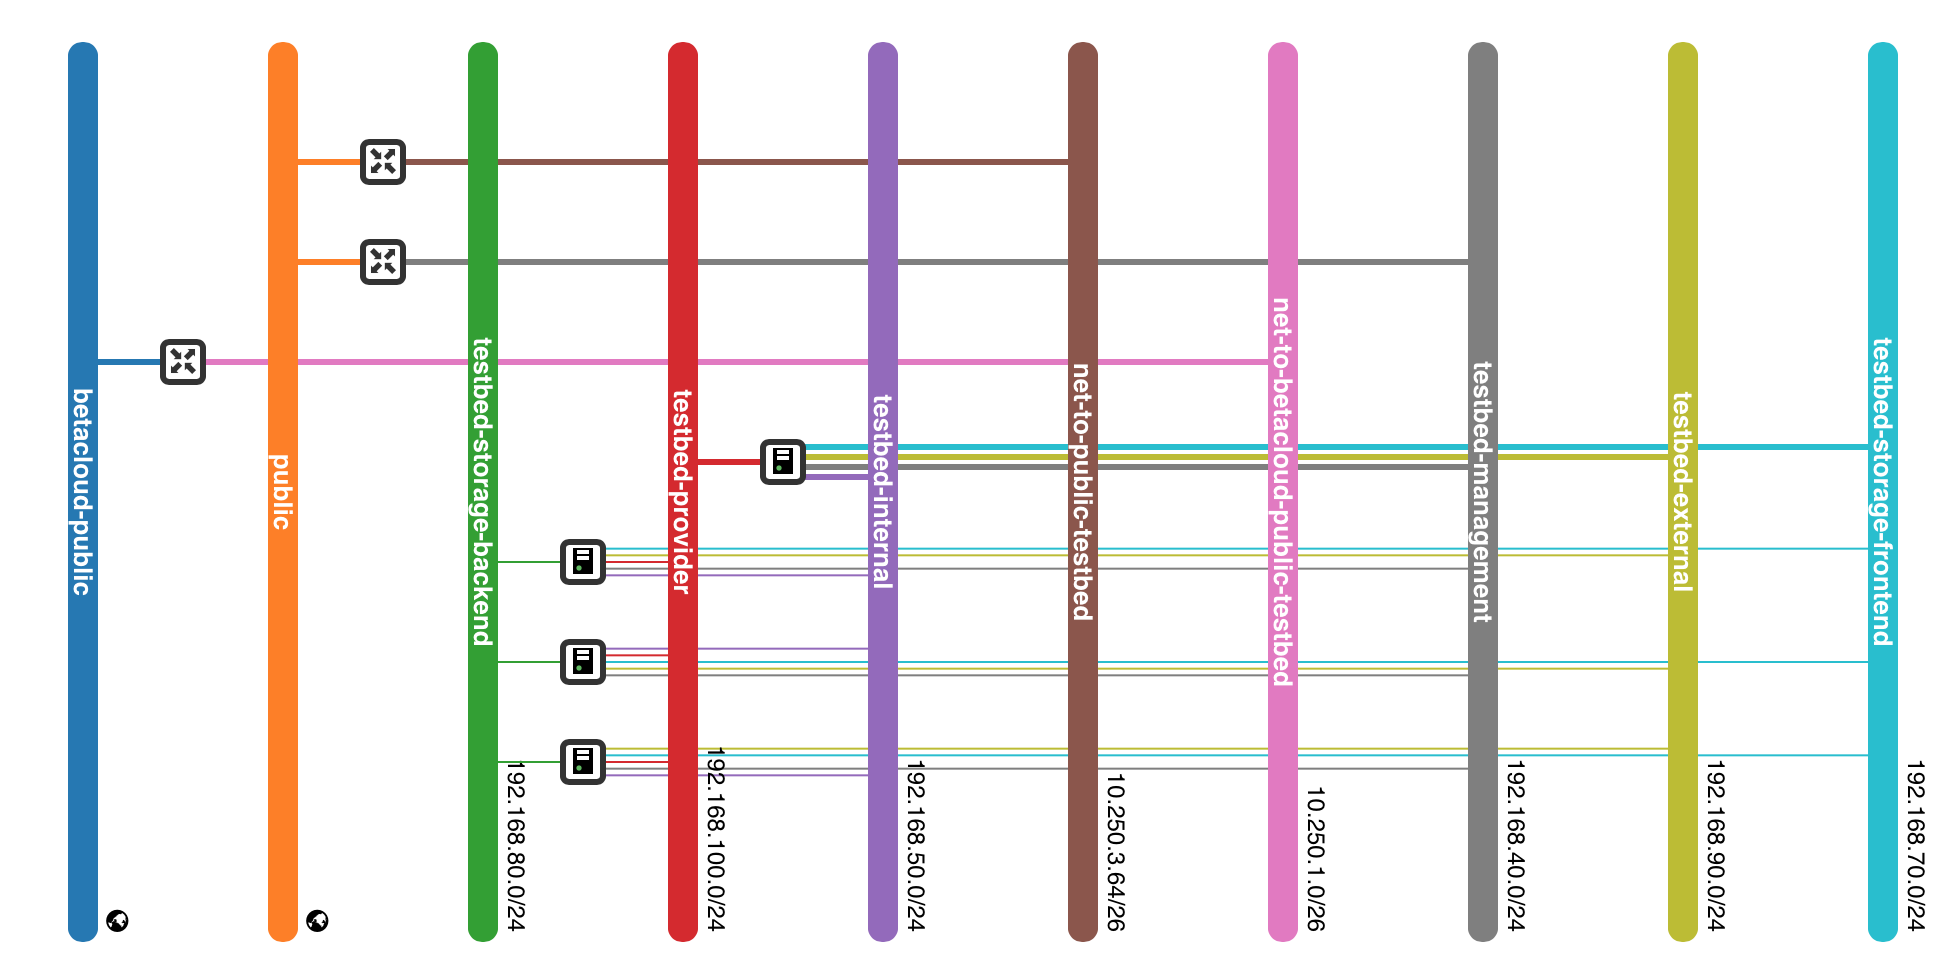
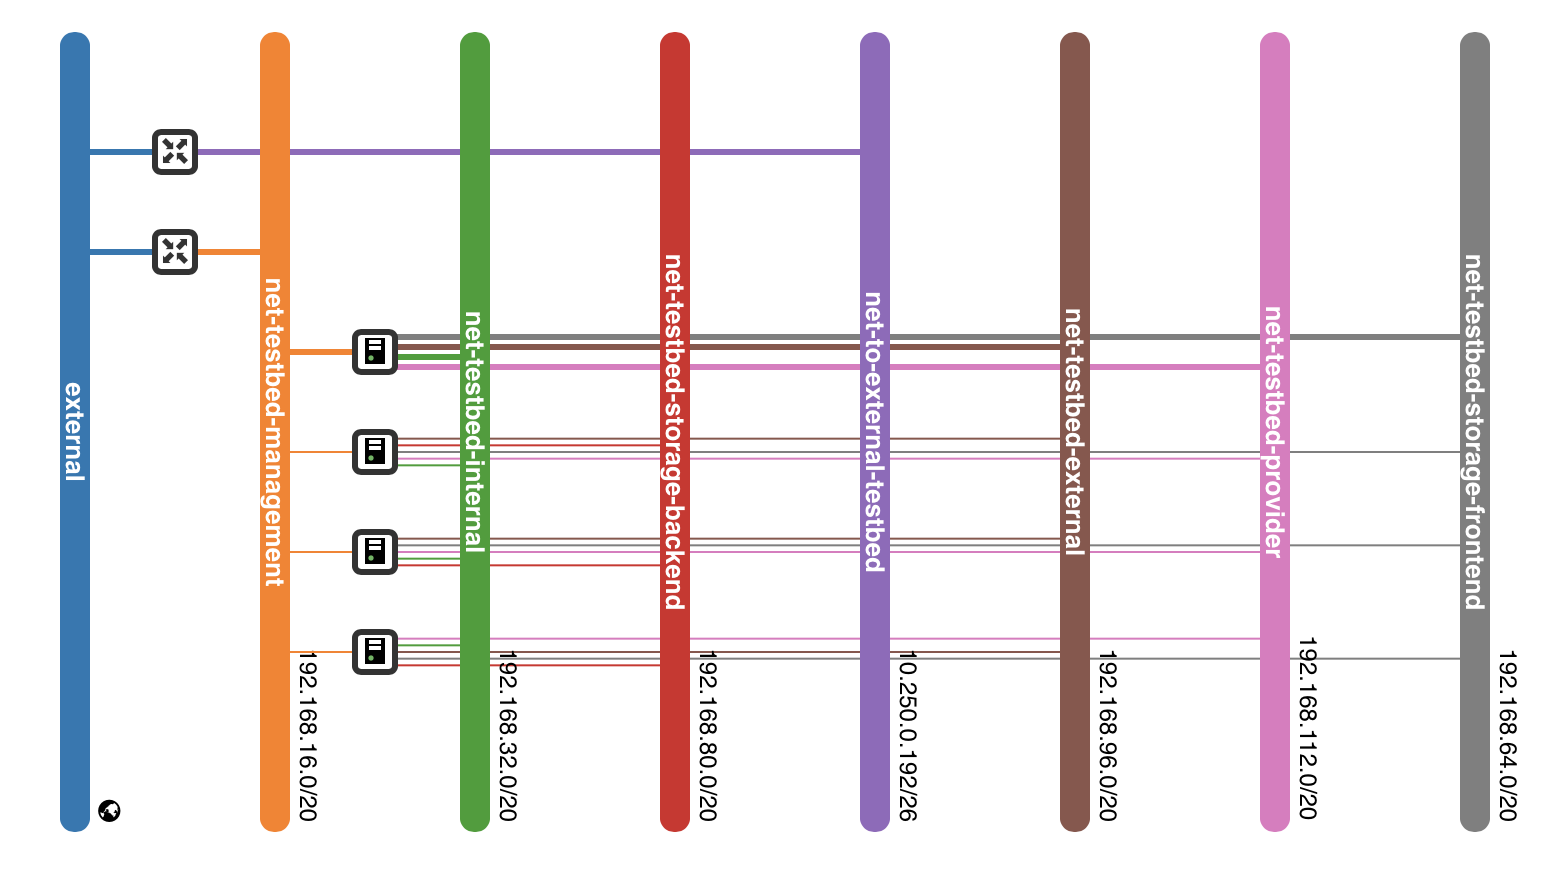
docs: fix the networking overview (#431)

diff --git a/docs/source/networking.rst b/docs/source/networking.rst
@@ -7,11 +7,9 @@ Networking
 
 .. figure:: /images/network-topology.png
 
-The networks ``net-to-public-testbed`` and ``net-to-betacloud-public`` are not part of the testbed.
-They are standard networks on the Betacloud.
-
-``public`` and ``betacloud`` are external networks on the Betacloud. These are also not part of
-the testbed.
+The network ``net-to-external-testbed`` is not part of the testbed.
+It is a standard network on the Betacloud. ``external`` is an external network on the Betacloud.
+This network is also not part of the testbed.
 
 Networks
 ========
